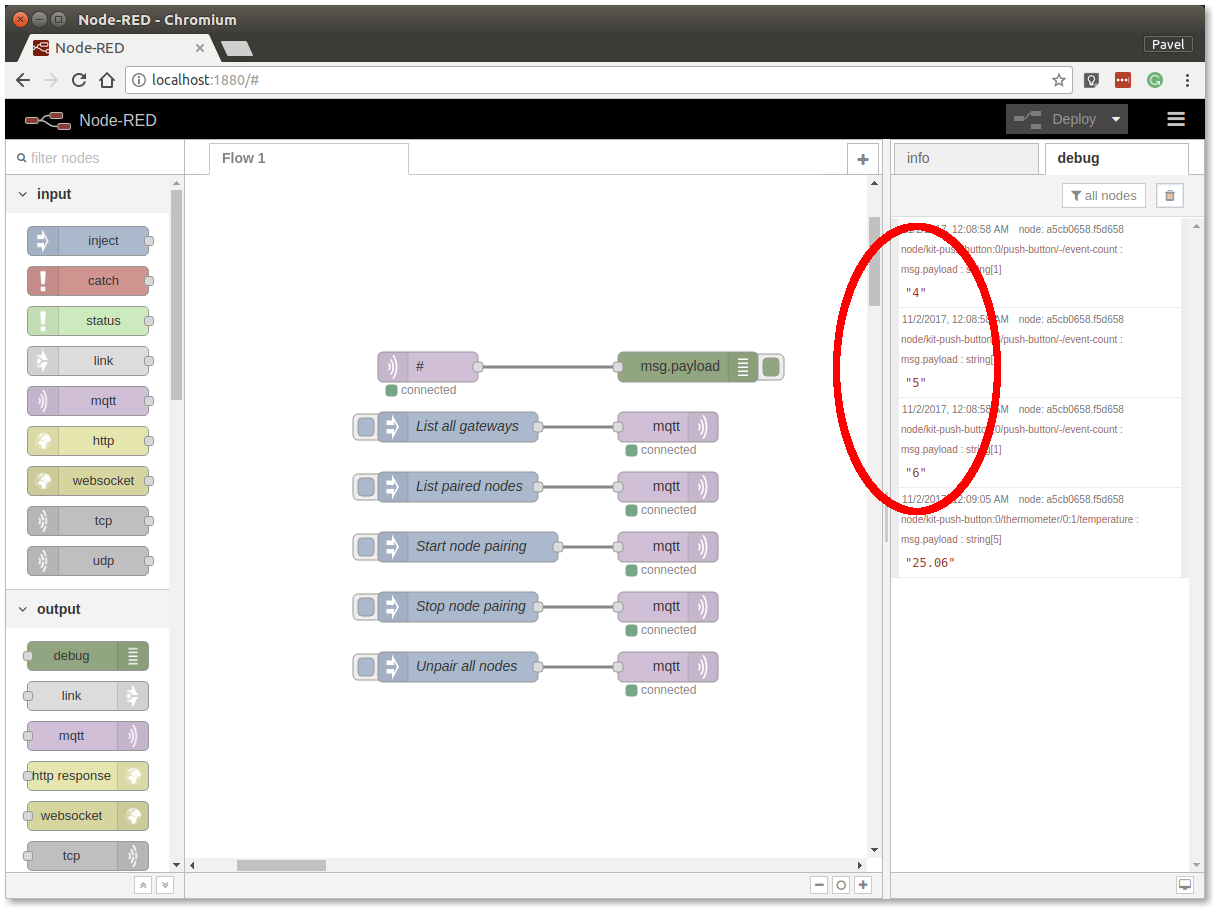
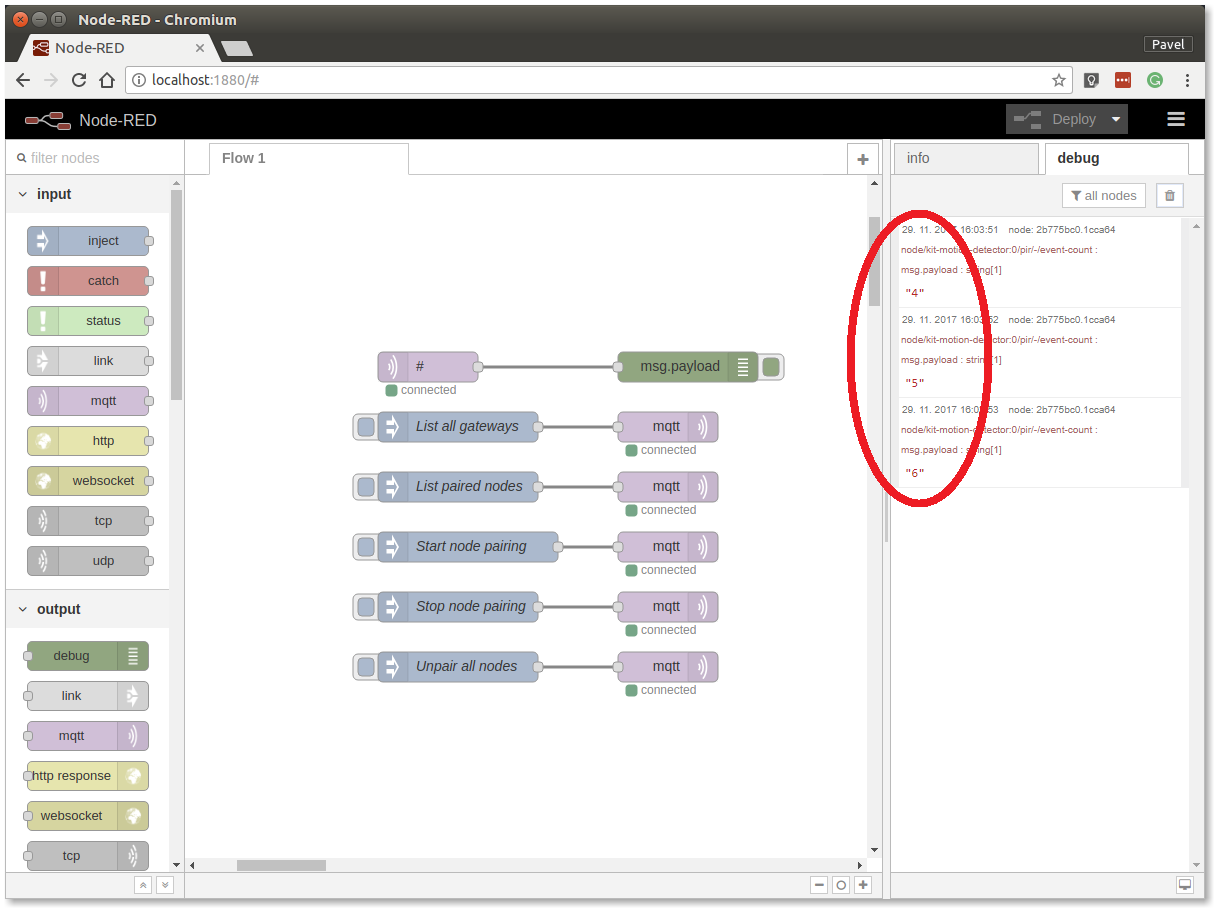
Add radio-test image

Changed region(s): [[0.6705, 0.2159, 0.9448, 0.6167]]

diff --git a/content/doc/projects/wireless-motion-detector.md b/content/doc/projects/wireless-motion-detector.md
@@ -130,7 +130,7 @@ Follow these steps in **Node-RED**:
 
     You should then see similar messages:
 
-    **TODO**
+    {{% img-zoom src="radio-test.png" %}}
 
 {{% note "success" %}}At this point, you've got verified radio communication.{{% /note %}}
 
